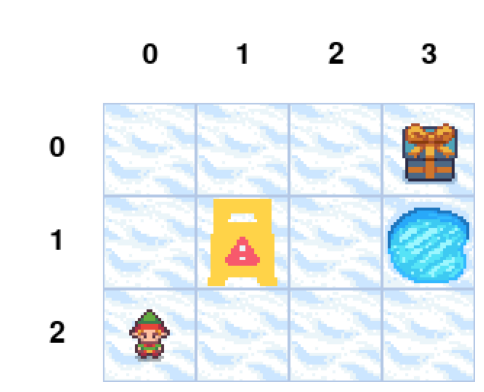
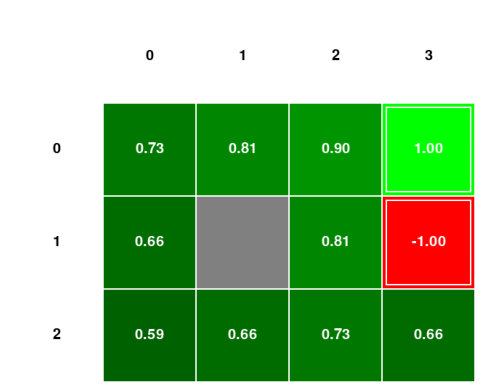
import rl_agent

diff --git a/rl_agent.py b/rl_agent.py
@@ -1,0 +1,54 @@
+
+from typing import Optional
+import numpy as np
+
+class RlAgent:
+    def __init__(self, env,rewards_f,reward_minmax,transitions_f=None,gamma=None):
+        self.env = env
+        self.rewards_f = rewards_f
+        self.reward_minmax = reward_minmax
+        self.transitions_f = transitions_f
+        self.gamma = gamma
+    
+    def init_values_2_tabs(self):
+        (nrow,ncol) = (self.env.nrow, self.env.ncol)
+        #Value computations
+        self.values_tabs = [ np.zeros((nrow,ncol)), np.zeros((nrow, ncol)) ]
+        self.v_idx = 0
+    
+    def compute_next_values(self, rewards_f=None, transitions_f=None, gamma : Optional[float]=None):
+        env = self.env
+        if None != gamma:
+            self.gamma = gamma
+        gamma = self.gamma
+        if None != rewards_f:
+            self.rewards_f = rewards_f
+        if None != transitions_f:
+            self.transitions_f = transitions_f
+        
+        #Value computations
+        prev = self.v_idx
+        next = (self.v_idx + 1) % 2
+        for s in range(env.state_space.n):
+            row,col = env.cell_id_to_cell_coordinates(s)
+            if env.is_blocked_coordinates(row,col):
+                continue
+            reward = self.rewards(row,col)
+            s_coords = env.cell_id_to_cell_coordinates(s)
+            if env.is_terminal_coordinates(row,col):
+                self.values_tabs[next][row][col] = reward
+            else:
+                next_values = [0.0] * env.action_space.n
+                for action in range(env.action_space.n):
+                    for s_next in range(env.state_space.n):
+                        s_next_coords = env.cell_id_to_cell_coordinates(s_next)
+                        prob = self.transitions_f(s_coords,action,s_next_coords)
+                        next_values[action] += prob * gamma * self.values_tabs[prev][s_next_coords[0]][s_next_coords[1]]
+                self.values_tabs[next][row][col] = reward + max(next_values)
+        self.v_idx = next
+    
+    def rewards(self,row,col):
+        return self.rewards_f(self.env.desc[row,col])
+    
+    def values(self,row,col):
+        return self.values_tabs[self.v_idx][row][col]
